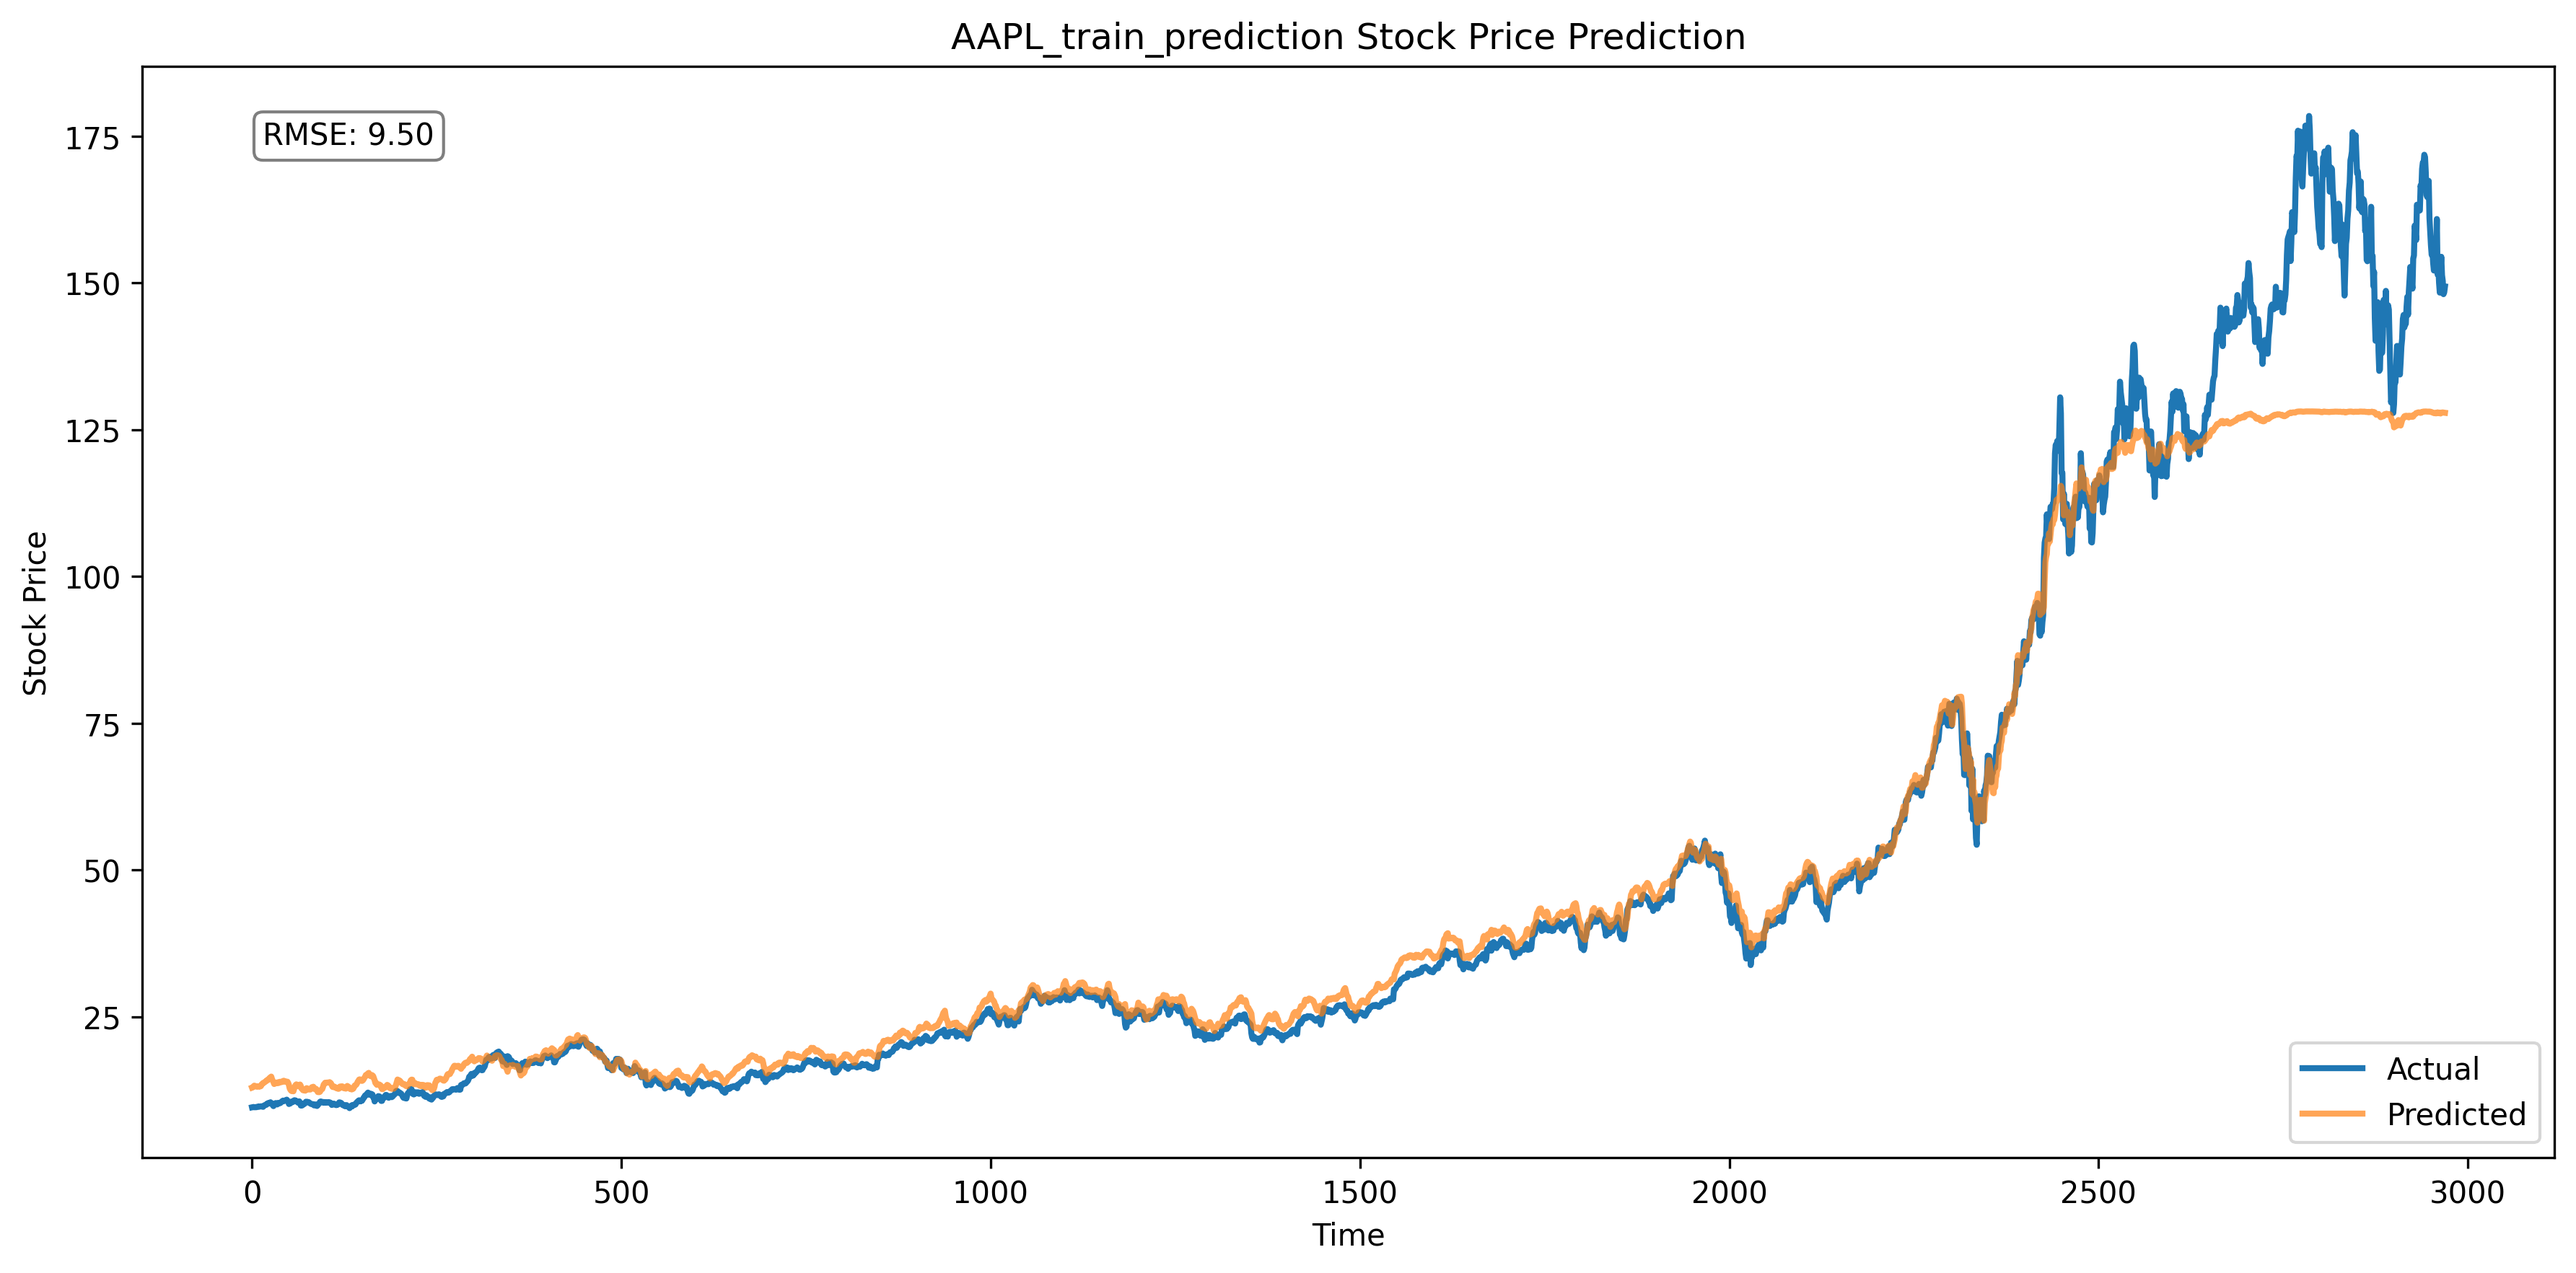
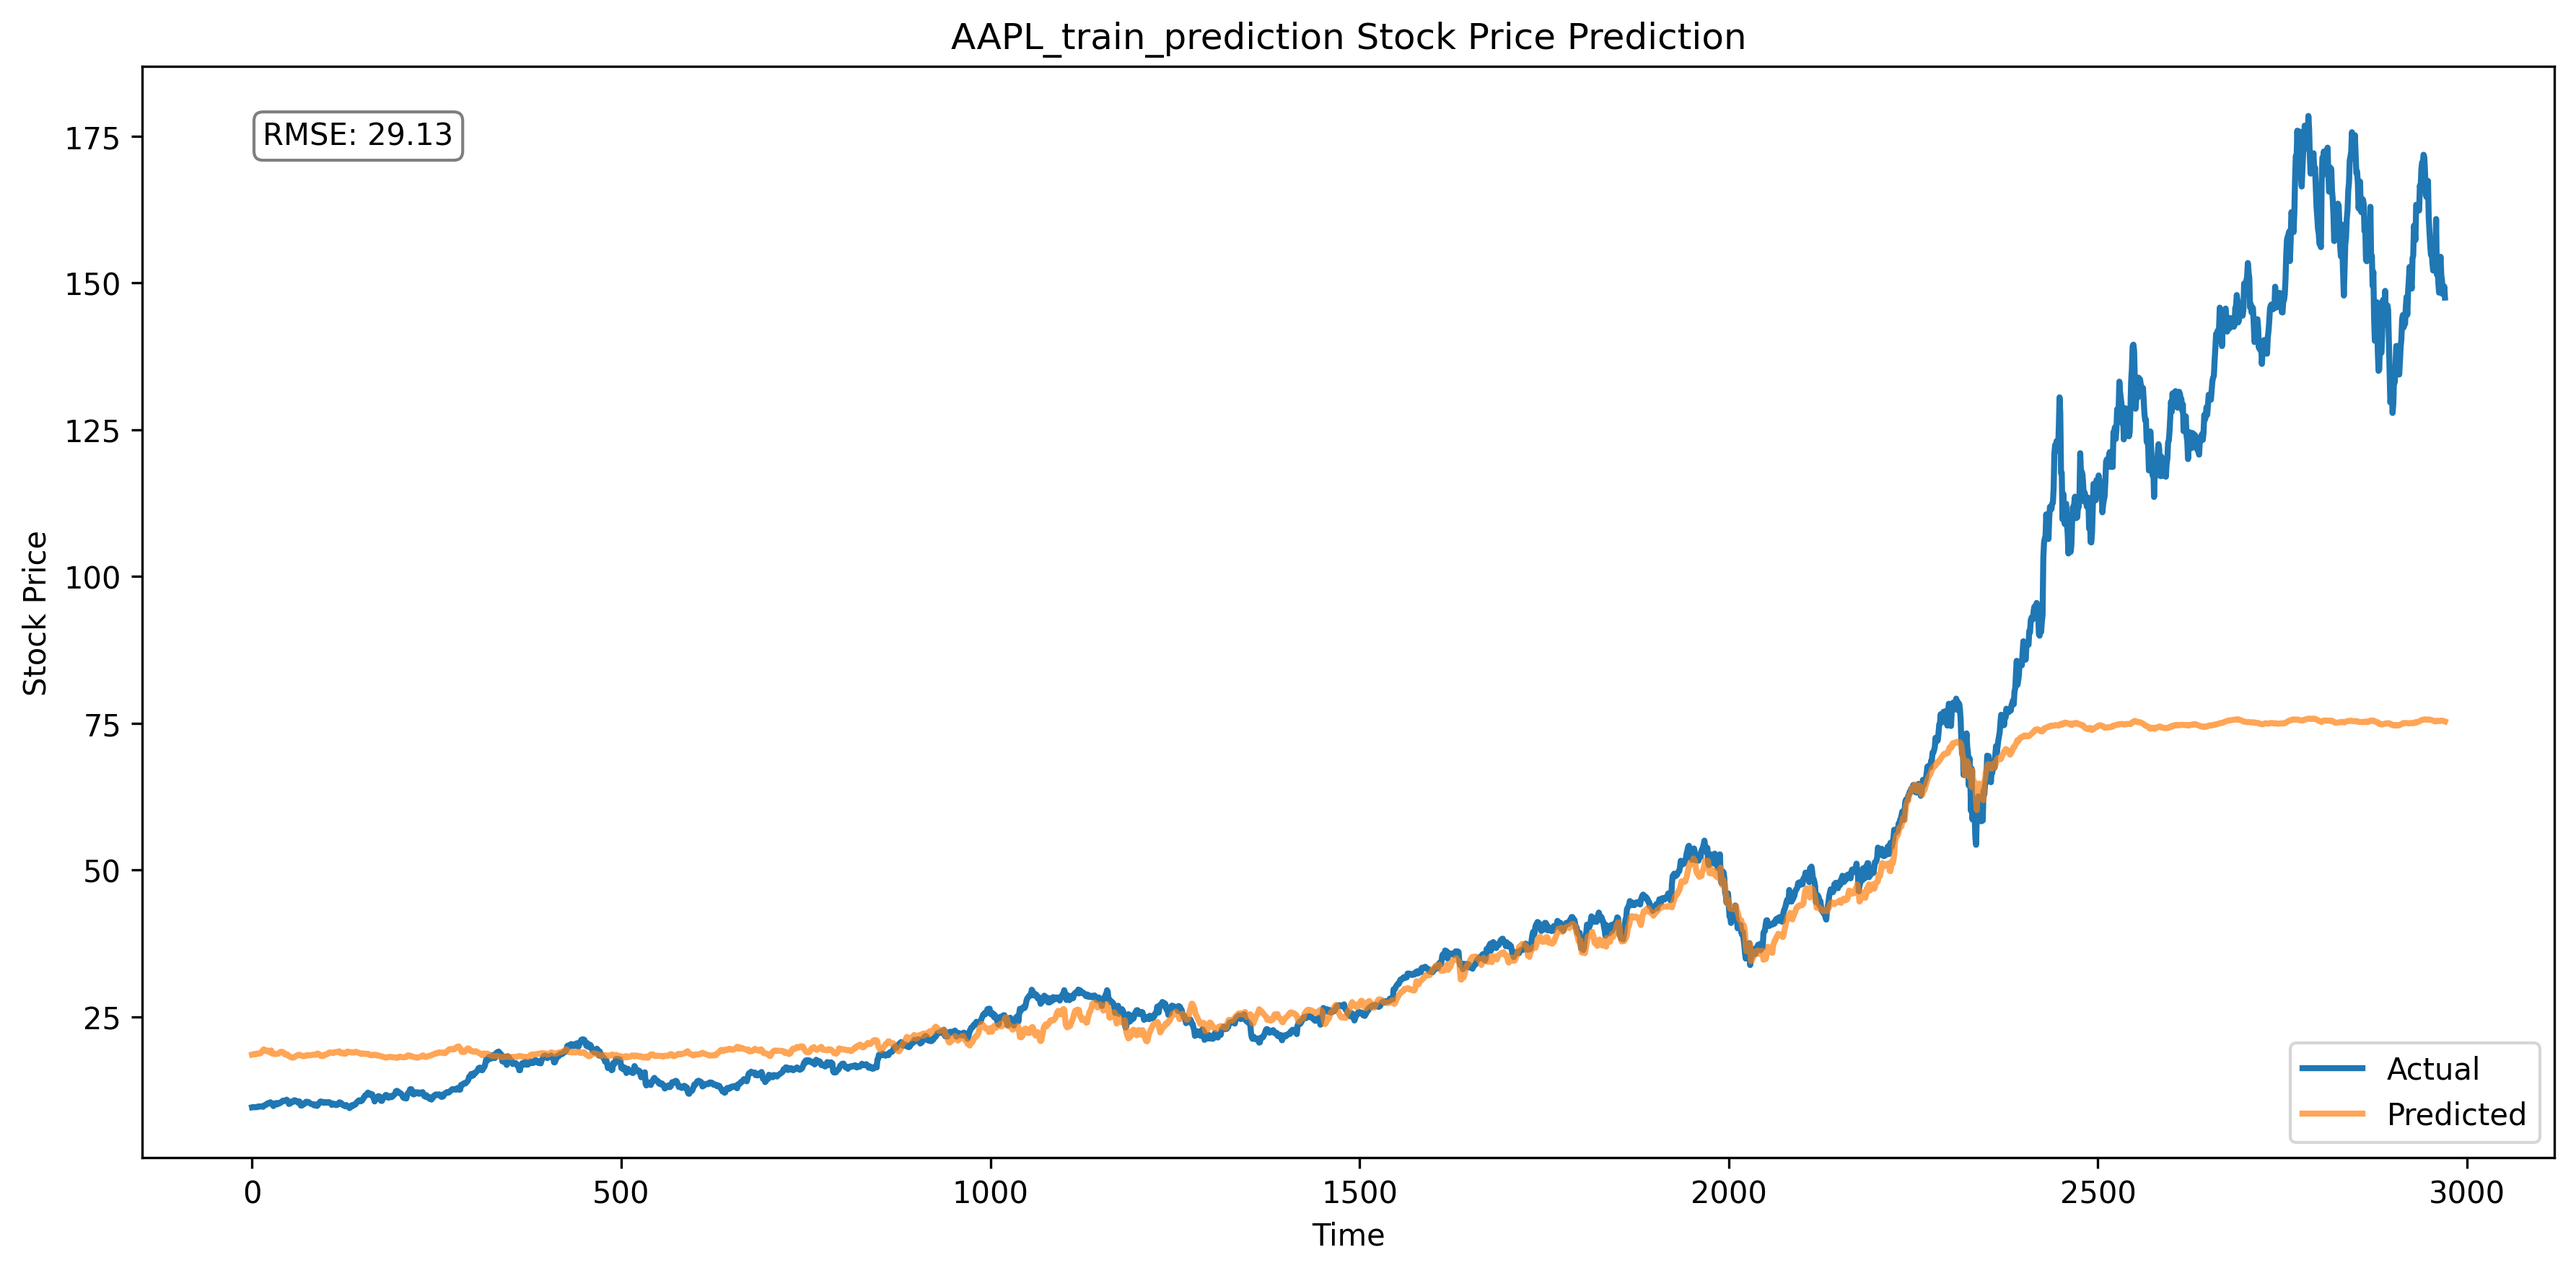
using DJIA, now overfitting is much less

diff --git a/stockproject/train.py b/stockproject/train.py
@@ -7,8 +7,8 @@ from datetime import datetime
 import matplotlib.pyplot as plt
 import numpy as np
 from sklearn.metrics import mean_squared_error
-from tensorflow.keras.callbacks import EarlyStopping, TensorBoard
-from tensorflow.keras.layers import Bidirectional, Dense, Dropout, Input, LSTM, LayerNormalization
+from tensorflow.keras.callbacks import EarlyStopping, TensorBoard, ReduceLROnPlateau, ModelCheckpoint
+from tensorflow.keras.layers import Bidirectional, Dense, Dropout, Input, LSTM, LayerNormalization, GaussianNoise
 from tensorflow.keras.models import Model, load_model
 from tensorflow.keras.regularizers import l2
 from dataprocessing import dataprocessing
@@ -90,24 +90,32 @@ def load_model_and_params(model_filename, params_filename):
     return model, params
 
 
-def create_model(input_shape, units=64, learning_rate=0.001, dropout_rate=0.2, l2_reg=0.005):
+def create_model(input_shape, units=64, learning_rate=0.0003, dropout_rate=0.3, l2_reg=0.01):
     inputs = Input(shape=input_shape)
-    x = Dropout(dropout_rate)(inputs)  # Add dropout to input
-
-    x = Bidirectional(LSTM(units, return_sequences=True,
-                           kernel_regularizer=l2(l2_reg),
-                           recurrent_regularizer=l2(l2_reg)))(x)
+    x = GaussianNoise(0.01)(inputs)
+    x = Bidirectional(LSTM(
+        units,
+        return_sequences=True,
+        dropout=0.2,
+        recurrent_dropout=0.2,
+        kernel_regularizer=l2(l2_reg),
+        recurrent_regularizer=l2(l2_reg)
+    ))(x)
     x = LayerNormalization()(x)
     x = Dropout(dropout_rate)(x)
 
-    x = Bidirectional(LSTM(units // 2, return_sequences=False,
-                           kernel_regularizer=l2(l2_reg),
-                           recurrent_regularizer=l2(l2_reg)))(x)
+    x = Bidirectional(LSTM(
+        units // 2,
+        return_sequences=False,
+        dropout=0.2,
+        recurrent_dropout=0.2,
+        kernel_regularizer=l2(l2_reg),
+        recurrent_regularizer=l2(l2_reg)
+    ))(x)
     x = LayerNormalization()(x)
     x = Dropout(dropout_rate)(x)
 
     x = Dense(units // 4, activation='relu', kernel_regularizer=l2(l2_reg))(x)
-    x = LayerNormalization()(x)
     x = Dropout(dropout_rate)(x)
 
     outputs = Dense(1, kernel_regularizer=l2(l2_reg))(x)
@@ -128,9 +136,9 @@ def create_or_load_model(MODEL_FILE, PARAMS_FILE, input_shape):
     # Defaults when no saved model/params are present
     default_params = {
         'units': 64,
-        'learning_rate': 0.001,
-        'dropout_rate': 0.2,
-        'l2_reg': 0.005
+        'learning_rate': 0.0003,
+        'dropout_rate': 0.3,
+        'l2_reg': 0.01
     }
 
     logging.info("No existing model found. Using default parameters...")
@@ -170,6 +178,34 @@ def plot_learning_curves(history, stock):
     plt.savefig(f'static/learning_curves_{stock}.png')
     plt.close()
     
+def inverse_transform_close(data, scaler, target_index):
+    """Inverse-transform only the target feature from standardized values.
+
+    Accepts arrays shaped as:
+      - (N,)                        -> already 1D target series
+      - (N, 1)                      -> single feature column
+      - (N, T) or (N, T, 1)         -> sequence outputs; takes last timestep
+    """
+    arr = np.asarray(data)
+    # Reduce sequence outputs to last timestep
+    if arr.ndim == 3:  # (N, T, C)
+        # If last dim is 1, squeeze it; then take last timestep
+        if arr.shape[-1] == 1:
+            arr = arr[:, -1, 0]
+        else:
+            arr = arr[:, -1]
+    if arr.ndim == 2:  # (N, K) -> pick last column if not singleton
+        if arr.shape[1] == 1:
+            arr = arr[:, 0]
+        else:
+            arr = arr[:, -1]
+    # Now arr should be (N,)
+    arr = arr.reshape(-1)
+    # StandardScaler inverse for a single feature: x*scale + mean
+    mean = scaler.mean_[target_index]
+    scale = scaler.scale_[target_index]
+    return arr * scale + mean
+
     
     
     
@@ -184,13 +220,13 @@ if __name__ == "__main__":
     configure_accelerator()
 
     # Data processing
-    tech_list = ['AAPL']  # extend as needed
+    tech_list = ['DJIA']  # extend as needed
     logging.info(f"Preparing data for: {tech_list}")
     x_train, y_train, x_test, y_test, metadata, scalers = dataprocessing(tech_list)
     input_shape = metadata['shape']
 
     # Filenames
-    MODEL_FILE = 'best_stock_model.h5'
+    MODEL_FILE = 'best_DJIA_model.h5'
     PARAMS_FILE = 'best_model_params.joblib'
     SCALERS_FILE = 'scalers.joblib'
     METADATA_FILE = 'preprocess_metadata.json'
@@ -198,7 +234,7 @@ if __name__ == "__main__":
     # Build or load model
     best_model, best_params = create_or_load_model(MODEL_FILE, PARAMS_FILE, input_shape)
 
-    early_stop = EarlyStopping(monitor='val_loss', patience=10, restore_best_weights=True)
+    early_stop = EarlyStopping(monitor='val_loss', patience=15, min_delta=1e-4, restore_best_weights=True)
 
     log_dir = "logs/fit/" + datetime.now().strftime("%Y%m%d-%H%M%S")
     tensorboard_callback = TensorBoard(log_dir=log_dir, histogram_freq=1, write_graph=True, write_images=True)
@@ -207,13 +243,18 @@ if __name__ == "__main__":
     for stock in tech_list:
         logging.info(f"Training for {stock} with {x_train[stock].shape[0]} samples (val/test: {x_test[stock].shape[0]})")
         # Use a validation split from the training data instead of test to avoid leaking test into training decisions
+        # Callbacks to reduce overfitting / improve generalization
+        reduce_lr = ReduceLROnPlateau(monitor='val_loss', factor=0.5, patience=5, min_lr=1e-6, verbose=1)
+        checkpoint_path = f"best_{stock}_model.h5"
+        checkpoint = ModelCheckpoint(checkpoint_path, monitor='val_loss', save_best_only=True, save_weights_only=False, verbose=1)
+
         history = best_model.fit(
             x_train[stock], y_train[stock],
             batch_size=64,
-            epochs=50,
-            validation_split=0.1,
-            shuffle=True,
-            callbacks=[early_stop, tensorboard_callback],
+            epochs=100,
+            validation_split=0.2,
+            shuffle=False,
+            callbacks=[early_stop, reduce_lr, checkpoint, tensorboard_callback],
             verbose=1
         )
 
@@ -223,20 +264,34 @@ if __name__ == "__main__":
         # Predictions and inverse-transform using stock-specific scaler
         # Use metadata-derived target index to avoid coupling to feature order
         target_idx = metadata['features'].index('Close')
-        def inverse_transform_close(data_1d, scaler, n_features, target_index):
-            tmp = np.zeros((len(data_1d), n_features))
-            tmp[:, target_index] = data_1d.flatten()
-            return scaler.inverse_transform(tmp)[:, target_index]
+
+        # Use best checkpointed model if available
+        try:
+            best_model = load_model(f"best_{stock}_model.h5")
+            logging.info(f"Loaded best checkpointed model for {stock}.")
+        except Exception:
+            logging.info(f"No checkpoint found for {stock}, using current model weights.")
 
         scaler = scalers[stock]
-        n_features = input_shape[1]
         train_pred = best_model.predict(x_train[stock])
         test_pred = best_model.predict(x_test[stock])
 
-        y_train_inv = inverse_transform_close(y_train[stock], scaler, n_features, target_idx)
-        y_test_inv = inverse_transform_close(y_test[stock], scaler, n_features, target_idx)
-        train_pred_inv = inverse_transform_close(train_pred, scaler, n_features, target_idx)
-        test_pred_inv = inverse_transform_close(test_pred, scaler, n_features, target_idx)
+        y_train_inv = inverse_transform_close(y_train[stock], scaler, target_idx)
+        y_test_inv = inverse_transform_close(y_test[stock], scaler, target_idx)
+        train_pred_inv = inverse_transform_close(train_pred, scaler, target_idx)
+        test_pred_inv = inverse_transform_close(test_pred, scaler, target_idx)
+
+        # Align lengths if needed (should already match, but guard just in case)
+        if train_pred_inv.shape[0] != y_train_inv.shape[0]:
+            m = min(train_pred_inv.shape[0], y_train_inv.shape[0])
+            logging.warning(f"Train length mismatch (pred={train_pred_inv.shape[0]}, true={y_train_inv.shape[0]}). Trimming to {m}.")
+            train_pred_inv = train_pred_inv[:m]
+            y_train_inv = y_train_inv[:m]
+        if test_pred_inv.shape[0] != y_test_inv.shape[0]:
+            m = min(test_pred_inv.shape[0], y_test_inv.shape[0])
+            logging.warning(f"Test length mismatch (pred={test_pred_inv.shape[0]}, true={y_test_inv.shape[0]}). Trimming to {m}.")
+            test_pred_inv = test_pred_inv[:m]
+            y_test_inv = y_test_inv[:m]
 
         train_rmse = float(np.sqrt(mean_squared_error(y_train_inv, train_pred_inv)))
         test_rmse = float(np.sqrt(mean_squared_error(y_test_inv, test_pred_inv)))

diff --git a/stockproject/dataprocessing.py b/stockproject/dataprocessing.py
@@ -154,7 +154,7 @@ def dataprocessing(tech_list: list[str], sequence_length: int = 30):
       sequence_length: int
     """
     end = datetime.now()
-    start = end - timedelta(days=365 * 15)
+    start = end - timedelta(days=365 * 50)
 
     features = ['Open', 'High', 'Low', 'Close', 'Volume', 'SMA_20', 'RSI', 'Returns']
     target_index = features.index('Close')
